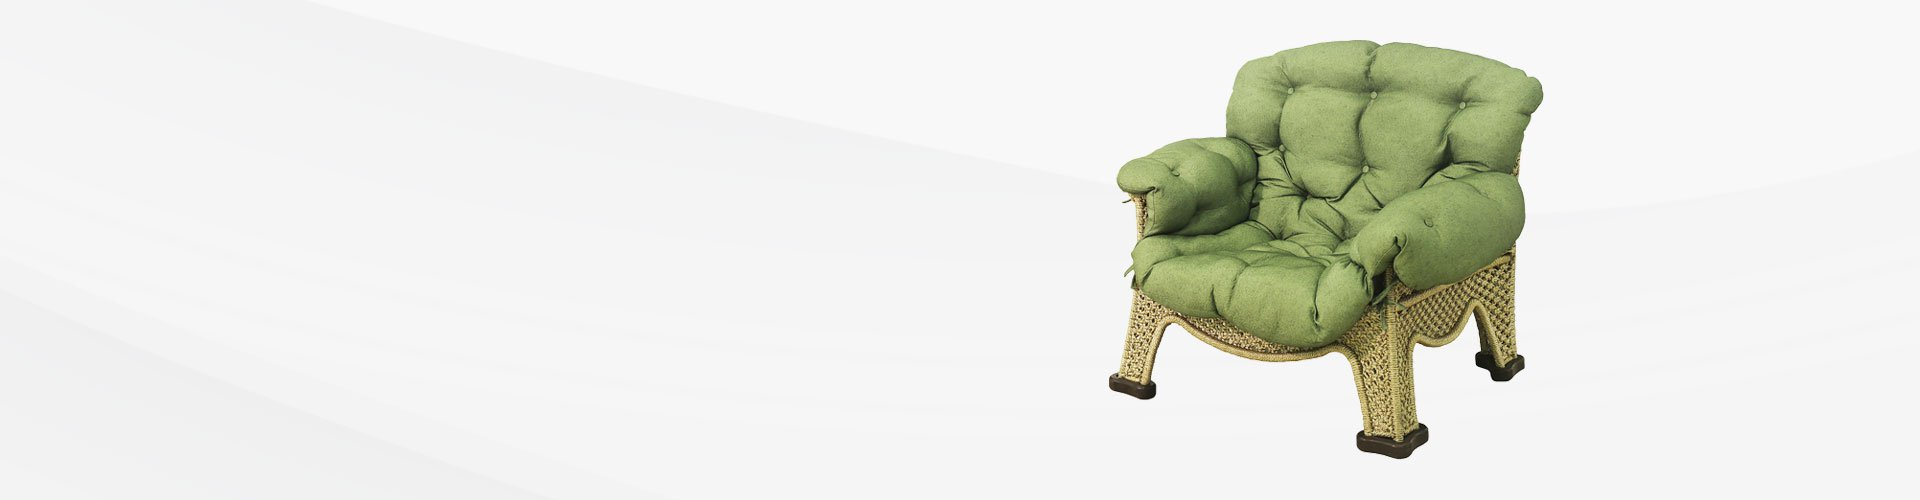
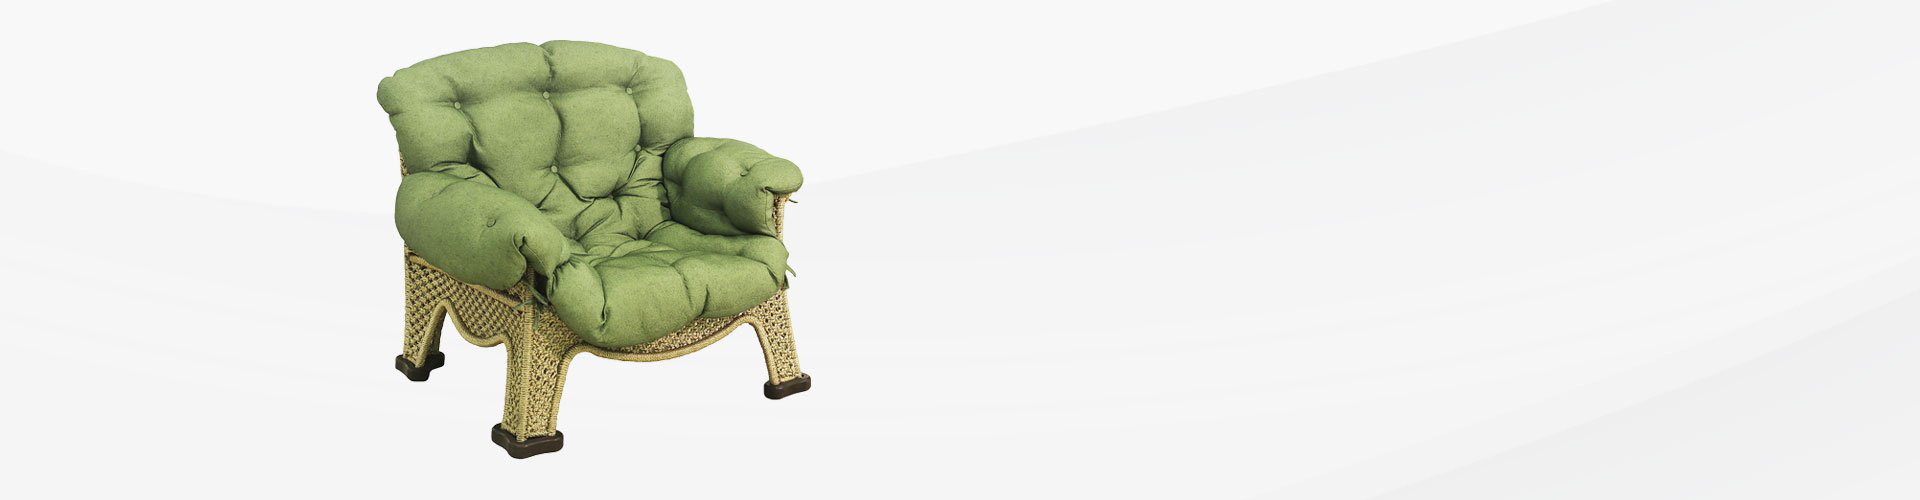
برخی تغییرات

Changed region(s): [[0.5625, 0.06, 0.8125, 0.93], [0.1875, 0.06, 0.4375, 0.93]]

diff --git a/public/css/style.css b/public/css/style.css
@@ -707,14 +707,14 @@
 
 /*slider area css here*/
 .single_slider.slider_one {
-	background: url(../img/slider/slider1.jpg);
+	/*background: url(../img/slider/slider1.jpg);*/
 	background-repeat: no-repeat;
 	background-attachment: scroll;
 	background-position: center center;
 	background-size: cover;
 }
 .single_slider.slider_two {
-	background: url(../img/slider/slider2.jpg);
+	/*background: url(../img/slider/slider2.jpg);*/
     background-repeat: no-repeat;
 	background-attachment: scroll;
 	background-position: center center;
@@ -2578,7 +2578,7 @@
     background: #242424;
 }
 .slider_three .single_slider.slider_one {
-	background: url(../img/slider/slider5.jpg);
+	/*background: url(../img/slider/slider5.jpg);*/
 	background-repeat: no-repeat;
 	background-attachment: scroll;
 	background-position: center center;
@@ -2589,7 +2589,7 @@
 	height: 550px;
 }
 .slider_three .single_slider.slider_two {
-	background: url(../img/slider/slider6.jpg);
+	/*background: url(../img/slider/slider6.jpg);*/
 	background-repeat: no-repeat;
 	background-attachment: scroll;
 	background-position: center center;
@@ -2891,14 +2891,14 @@
 }
 
 .slider_four_area .single_slider.slider_one {
-	background: url(../img/slider/slider8.jpg);
+	/*background: url(../img/slider/slider8.jpg);*/
 	background-repeat: no-repeat;
 	background-attachment: scroll;
 	background-position: center center;
 	background-size: cover;
 }
 .slider_four_area .single_slider.slider_two {
-	background: url(../img/slider/slider7.jpg);
+	/*background: url(../img/slider/slider7.jpg);*/
 	background-repeat: no-repeat;
 	background-attachment: scroll;
 	background-position: center center;

diff --git a/resources/views/welcome.blade.php b/resources/views/welcome.blade.php
@@ -6,6 +6,7 @@
             <div class="container">
                 <div class="row align-items-center">
                     <div class="col-12">
+                        <img src="{{ asset('img/slider/slider5.jpg') }}">
                         <div class="slider_content">
                             <h1>
                                 bentwood armchair
@@ -20,7 +21,7 @@
                 </div>
             </div>
         </div>
-        <div class="single_slider slider_two">
+        <div class="single_slider slider_two" style="background :url('{{asset('img/slider/slider6.jpg')}}');">
             <div class="container">
                 <div class="row align-items-center">
                     <div class="col-12">
